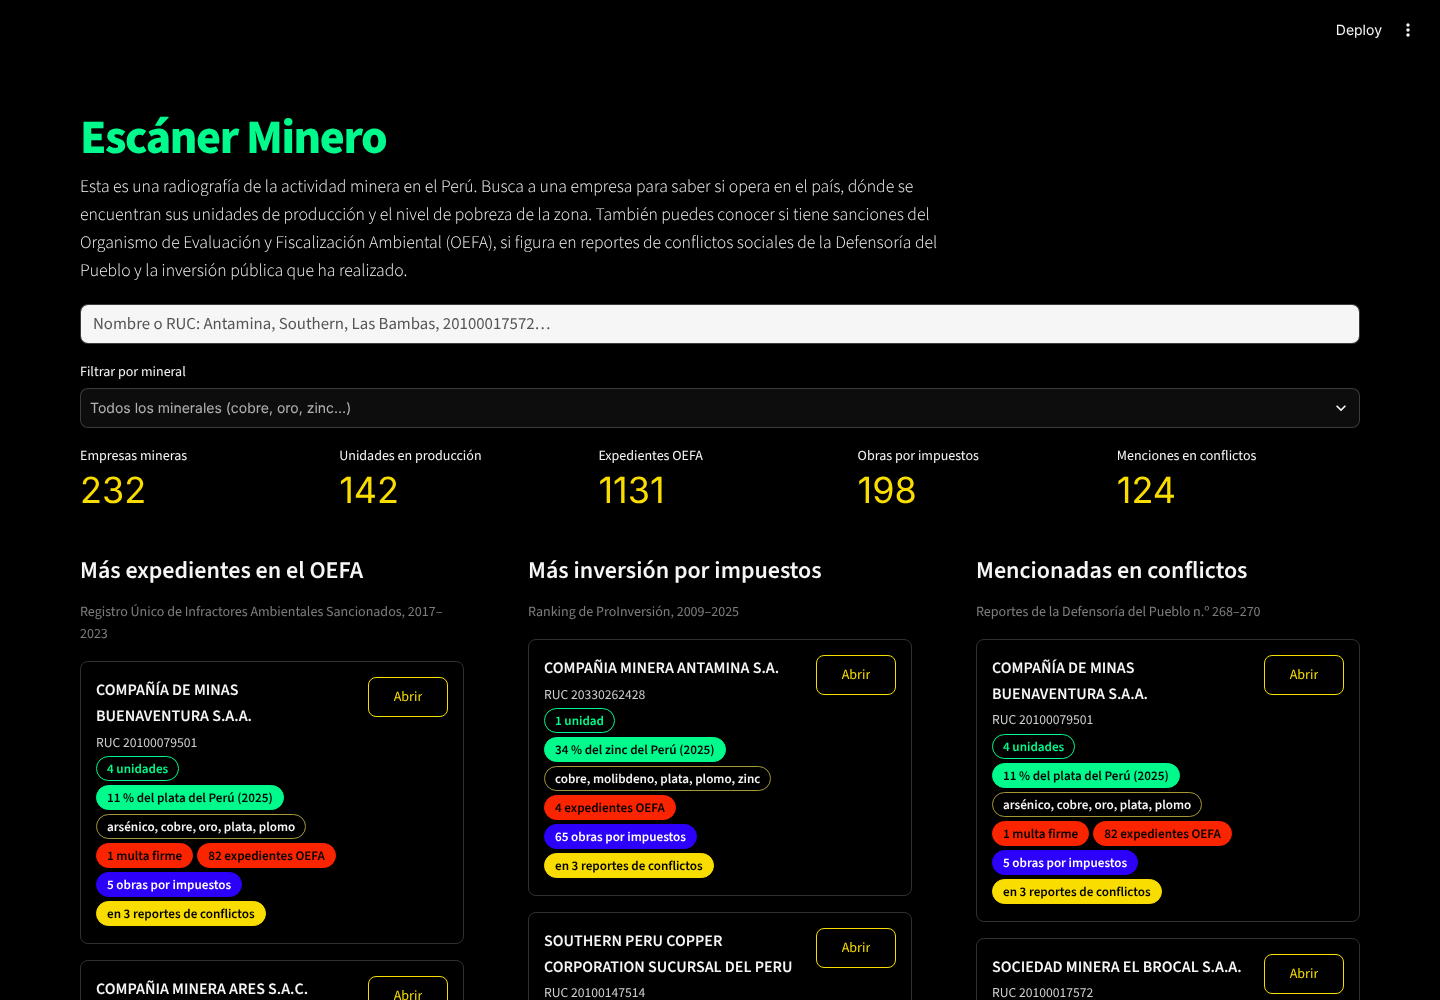
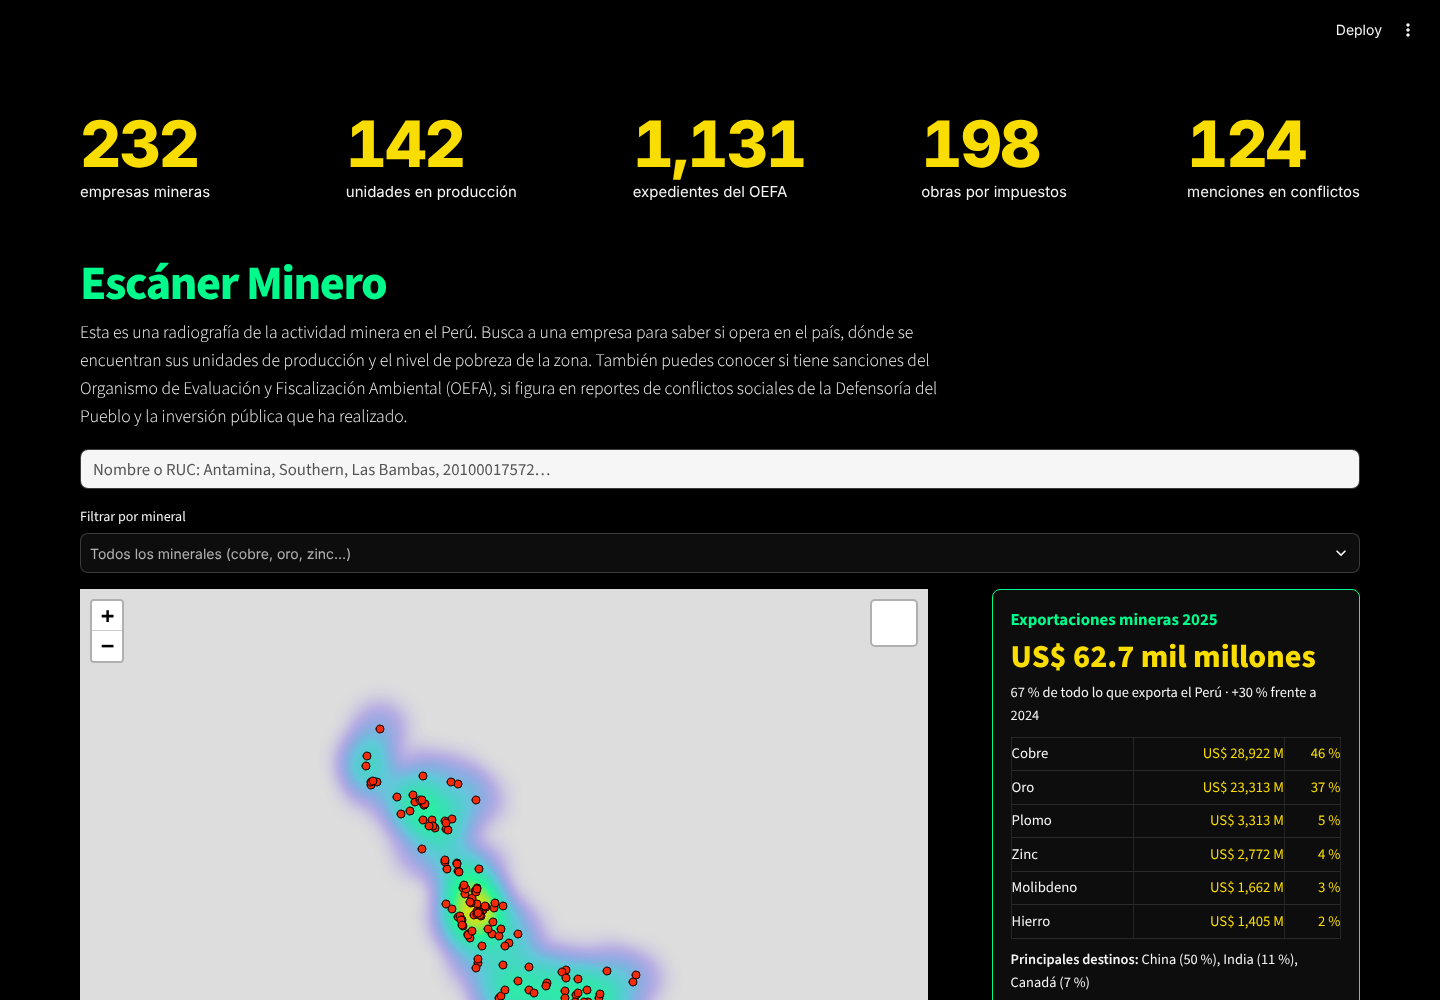
trabajo final: contador animado, mapa de calor de unidades mineras y resumen de exportaciones

diff --git a/trabajo_final/app.py b/trabajo_final/app.py
@@ -9,11 +9,13 @@ en qué conflictos sociales aparecen.
 
 from __future__ import annotations
 
+import json
 import os
 
 import geopandas as gpd
 import pandas as pd
 import streamlit as st
+import streamlit.components.v1 as components
 from streamlit_folium import st_folium
 
 from radar import mapa as M
@@ -57,6 +59,14 @@ st.markdown(
             border: none; font-weight: 600; }
     .stButton button[kind="secondary"] { border-color: #FADD00; color: #FADD00; background: #000000; }
     h4, h5 { color: #F6F6F6; }
+    .expo { border: 1px solid #00FA8C; border-radius: 8px; padding: 1rem 1.1rem; background: #0D0D0D; }
+    .expo .t { color: #00FA8C; font-weight: 700; font-size: 1.05rem; }
+    .expo .big { color: #FADD00; font-weight: 800; font-size: 2rem; line-height: 1.15; margin: .3rem 0; }
+    .expo .s { color: #F6F6F6; font-size: .9rem; margin: .4rem 0; }
+    .expo table { width: 100%; border-collapse: collapse; margin: .6rem 0; font-size: .92rem; }
+    .expo td { padding: .28rem 0; border-bottom: 1px solid #2a2a2a; color: #F6F6F6; }
+    .expo td.d { text-align: right; color: #FADD00; font-variant-numeric: tabular-nums; }
+    .expo .f { color: #A59837; font-size: .78rem; margin-top: .5rem; }
     </style>
     """,
     unsafe_allow_html=True,
@@ -128,6 +138,64 @@ def tarjeta(f: pd.Series, key: str) -> None:
         der.button("Abrir", key=key, on_click=ir_a, args=(f["empresa_id"],), use_container_width=True)
 
 
+def contador(cifras: list[tuple[int, str]]) -> None:
+    """Cifras grandes que cuentan desde cero al cargar la página."""
+    celdas = "".join(
+        f'<div class="c"><div class="n" data-v="{v}">0</div><div class="l">{l}</div></div>' for v, l in cifras
+    )
+    components.html(
+        f"""<style>
+        body {{ margin: 0; background: #000; font-family: Inter, Arial, sans-serif; }}
+        .fila {{ display: flex; flex-wrap: wrap; gap: 8px 32px; justify-content: space-between; }}
+        .c {{ min-width: 150px; }}
+        .n {{ color: #FADD00; font-weight: 800; font-size: 64px; line-height: 1; letter-spacing: -0.03em;
+              font-variant-numeric: tabular-nums; }}
+        .l {{ color: #F6F6F6; font-size: 15px; margin-top: 6px; }}
+        @media (max-width: 700px) {{ .n {{ font-size: 40px; }} }}
+        </style>
+        <div class="fila">{celdas}</div>
+        <script>
+        const dur = 1600, t0 = performance.now();
+        const els = [...document.querySelectorAll('.n')];
+        function paso(t) {{
+          const k = Math.min(1, (t - t0) / dur), e = 1 - Math.pow(1 - k, 3);
+          els.forEach(el => el.textContent = Math.round(el.dataset.v * e).toLocaleString('es-PE'));
+          if (k < 1) requestAnimationFrame(paso);
+        }}
+        requestAnimationFrame(paso);
+        </script>""",
+        height=120,
+    )
+
+
+@st.cache_data
+def exportaciones() -> dict | None:
+    ruta = PROC / "exportaciones_2025.json"
+    return json.loads(ruta.read_text()) if ruta.exists() else None
+
+
+def recuadro_exportaciones(x: dict) -> None:
+    var = (x["metalicas_musd"] / x["metalicas_2024_musd"] - 1) * 100
+    part = x["metalicas_musd"] / x["total_pais_musd"] * 100
+    filas = "".join(
+        f'<tr><td>{p["producto"]}</td><td class="d">US$ {p["musd"]:,.0f} M</td>'
+        f'<td class="d">{p["musd"] / x["metalicas_musd"] * 100:.0f} %</td></tr>'
+        for p in x["productos"][:6]
+    )
+    destinos = ", ".join(f'{d["pais"]} ({d["part"] * 100:.0f} %)' for d in x["destinos"][:3])
+    st.markdown(
+        f"""<div class="expo">
+        <div class="t">Exportaciones mineras {x["anio"]}</div>
+        <div class="big">US$ {x["metalicas_musd"] / 1000:,.1f} mil millones</div>
+        <div class="s">{part:.0f} % de todo lo que exporta el Perú · {var:+.0f} % frente a 2024</div>
+        <table>{filas}</table>
+        <div class="s"><b>Principales destinos:</b> {destinos}</div>
+        <div class="f">Fuente: {x["fuente"]}. Minería metálica.</div>
+        </div>""",
+        unsafe_allow_html=True,
+    )
+
+
 B = base()
 E = B.empresas
 elegida = st.query_params.get("empresa")
@@ -136,7 +204,8 @@ elegida = st.query_params.get("empresa")
 # Portada y búsqueda
 # =====================================================================
 if not elegida or elegida not in set(E["empresa_id"]):
-    st.markdown('<div class="marca">Escáner Minero</div>', unsafe_allow_html=True)
+    arriba = st.empty()  # el contador se llena cuando ya se conoce el filtro
+    st.markdown('<div class="marca" style="margin-top:.6rem;">Escáner Minero</div>', unsafe_allow_html=True)
     st.markdown(
         '<div class="bajada">Esta es una radiografía de la actividad minera en el Perú. Busca a una empresa '
         "para saber si opera en el país, dónde se encuentran sus unidades de producción y el nivel de pobreza "
@@ -157,13 +226,38 @@ if not elegida or elegida not in set(E["empresa_id"]):
     if filtro:
         E = E[E["minerales"].apply(lambda ms: any(m in ms for m in filtro))]
 
-    c = st.columns(5)
-    c[0].metric("Empresas mineras", len(E))
-    c[1].metric("Unidades en producción", int(E["n_unidades"].sum()))
-    c[2].metric("Expedientes OEFA", int(E.get("n_expedientes_ruias", pd.Series([0])).sum()))
-    c[3].metric("Obras por impuestos", int(B.oxi.loc[B.oxi["empresa_id"].isin(E["empresa_id"]), "obra"].nunique()))
-    c[4].metric("Menciones en conflictos",
-                0 if B.conflictos is None else int(B.conflictos["empresa_id"].isin(E["empresa_id"]).sum()))
+    with arriba.container():
+        contador([
+            (len(E), "empresas mineras"),
+            (int(E["n_unidades"].sum()), "unidades en producción"),
+            (int(E["n_expedientes_ruias"].sum()), "expedientes del OEFA"),
+            (int(B.oxi.loc[B.oxi["empresa_id"].isin(E["empresa_id"]), "obra"].nunique()), "obras por impuestos"),
+            (0 if B.conflictos is None else int(B.conflictos["empresa_id"].isin(E["empresa_id"]).sum()),
+             "menciones en conflictos"),
+        ])
+
+    if not consulta:
+        col_mapa, col_expo = st.columns([2.2, 1], gap="large")
+        with col_mapa:
+            uds = B.unidades[B.unidades["empresa_id"].isin(E["empresa_id"])]
+            clic = st_folium(M.mapa_calor(uds), height=540, use_container_width=True,
+                             returned_objects=["last_object_clicked"], key=f"calor-{len(uds)}")
+            punto = (clic or {}).get("last_object_clicked")
+            if punto:
+                d = (uds["LATITUD"] - punto["lat"]).abs() + (uds["LONGITUD"] - punto["lng"]).abs()
+                u = uds.loc[d.idxmin()]
+                if d.min() < 0.01:
+                    a1, a2 = st.columns([3, 1])
+                    a1.markdown(f"**{u['unidad']}** · {u['titular']} · {str(u['distrito']).title()}, "
+                                f"{str(u['region']).title()}")
+                    a2.button("Ver empresa", on_click=ir_a, args=(u["empresa_id"],), key="desde-mapa",
+                              use_container_width=True)
+            st.caption("Haz zoom para ubicar cada unidad y clic en un punto para abrir la empresa. "
+                       "El calor muestra dónde se concentran las unidades en producción (MINEM).")
+        with col_expo:
+            x = exportaciones()
+            if x:
+                recuadro_exportaciones(x)
 
     if consulta:
         res = B.buscar(consulta)

diff --git a/trabajo_final/radar/mapa.py b/trabajo_final/radar/mapa.py
@@ -118,3 +118,47 @@ def construir(
     mapa.get_root().html.add_child(folium.Element(LEYENDA))
     folium.LayerControl(collapsed=True).add_to(mapa)
     return mapa
+
+
+# ---------------------------------------------------------------------
+# Portada: mapa de calor de la actividad minera en todo el Perú
+# ---------------------------------------------------------------------
+def mapa_calor(unidades: pd.DataFrame) -> folium.Map:
+    """Mapa base topográfico (verdes y azules, al estilo de Google Maps), calor por densidad
+    de unidades mineras y un punto por unidad para ubicarlas al hacer zoom."""
+    from folium.plugins import HeatMap
+
+    mapa = folium.Map(location=[-9.3, -75.0], zoom_start=5, tiles=None, control_scale=True,
+                      min_zoom=4, max_bounds=True)
+    folium.TileLayer(
+        tiles="https://server.arcgisonline.com/ArcGIS/rest/services/World_Topo_Map/MapServer/tile/{z}/{y}/{x}",
+        attr="Tiles &copy; Esri &mdash; Esri, HERE, Garmin, USGS, &copy; OpenStreetMap",
+        name="Relieve", max_zoom=17,
+    ).add_to(mapa)
+    folium.TileLayer("OpenStreetMap", name="Calles").add_to(mapa)
+
+    puntos = unidades[["LATITUD", "LONGITUD"]].dropna().values.tolist()
+    HeatMap(
+        puntos, name="Concentración de unidades", radius=26, blur=22, min_opacity=0.35, max_zoom=9,
+        gradient={0.2: "#2C00FA", 0.55: "#00B4D8", 0.85: "#00FA8C", 1.0: "#FADD00"},
+    ).add_to(mapa)
+
+    grupo = folium.FeatureGroup(name="Unidades mineras").add_to(mapa)
+    for _, u in unidades.dropna(subset=["LATITUD", "LONGITUD"]).iterrows():
+        folium.CircleMarker(
+            location=[u["LATITUD"], u["LONGITUD"]], radius=4, color="#000000", weight=1,
+            fill=True, fill_color="#FA2400", fill_opacity=0.95,
+            tooltip=f"<b>{u['unidad']}</b><br>{u['titular']}<br>{u['producto']}<br><i>Clic para ver la empresa</i>",
+        ).add_to(grupo)
+
+    mapa.get_root().html.add_child(folium.Element(
+        """<div style="position: fixed; bottom: 24px; left: 12px; z-index: 9999; background: #000; color: #F6F6F6;
+        border: 1px solid #F6F6F6; padding: 8px 10px; border-radius: 6px; font: 12px Inter, Arial, sans-serif;">
+        <div style="font-weight:600;margin-bottom:4px;">Concentración de unidades mineras</div>
+        <div style="width:160px;height:10px;background:linear-gradient(to right,#2C00FA,#00B4D8,#00FA8C,#FADD00);"></div>
+        <div style="display:flex;justify-content:space-between;width:160px;"><span>menos</span><span>más</span></div>
+        <div style="margin-top:6px;"><span style="display:inline-block;width:10px;height:10px;border-radius:50%;
+        background:#FA2400;border:1px solid #000;"></span> Unidad minera en producción</div></div>"""
+    ))
+    folium.LayerControl(collapsed=True).add_to(mapa)
+    return mapa

diff --git a/trabajo_final/scripts/preparar_empresas.py b/trabajo_final/scripts/preparar_empresas.py
@@ -152,6 +152,7 @@ def main() -> None:
     prod_out = cargar_produccion(U)
     inv_out = cargar_inversion(U)
     guardar_transferencias()
+    guardar_exportaciones()
 
     # 7) Defensoría (opcional): menciones de cada empresa en los reportes
     conflictos_out = cargar_defensoria(U)
@@ -323,6 +324,48 @@ def guardar_transferencias() -> None:
                               "soles": pd.to_numeric(r[c], errors="coerce")})
     pd.DataFrame(filas).to_csv(PROC / "transferencias_departamento.csv", index=False)
     print(f"Transferencias: {len(filas)} registros departamento-concepto-año.")
+
+
+def guardar_exportaciones() -> None:
+    """Resumen de exportaciones mineras (Anuario Minero 2025): total, productos y destinos."""
+    if not ANUARIO.exists():
+        return
+    import json
+
+    tot = pd.read_excel(ANUARIO, sheet_name="Exportaciones", header=None)
+    enc = tot.index[tot[0].astype(str).str.startswith("PRODUCTO")][0]
+    cols = _anios(tot.loc[enc])
+    c25 = next(c for c, a in cols.items() if a == 2025)
+    c24 = next(c for c, a in cols.items() if a == 2024)
+    fila = lambda nombre: tot.loc[tot[0].astype(str).str.strip().str.upper().str.startswith(nombre)].iloc[0]
+    met, total = fila("MINERO METÁLICOS"), fila("TOTAL")
+
+    em = pd.read_excel(ANUARIO, sheet_name="Export Min", header=None)
+    enc = em.index[em[0].astype(str).str.startswith("PRODUCTO")][0]
+    cols_m = _anios(em.loc[enc])
+    k25 = next(c for c, a in cols_m.items() if a == 2025)
+    productos = []
+    for _, r in em.loc[enc + 1:].iterrows():
+        n = str(r[0])
+        if n.upper().startswith("TOTAL"):
+            break
+        if "/" in n and not n.upper().startswith("OTROS"):
+            productos.append({"producto": n.split("/")[0].strip().capitalize(), "musd": float(r[k25])})
+    productos.sort(key=lambda x: -x["musd"])
+
+    de = pd.read_excel(ANUARIO, sheet_name="Destino export", header=None)
+    destinos = [{"pais": str(r[0]).strip().title(), "musd": float(r[2]), "part": float(r[3])}
+                for _, r in de.iloc[4:9].iterrows()]
+
+    resumen = {
+        "anio": 2025,
+        "metalicas_musd": float(met[c25]), "metalicas_2024_musd": float(met[c24]),
+        "total_pais_musd": float(total[c25]),
+        "productos": productos, "destinos": destinos,
+        "fuente": "MINEM, Anuario Minero 2025 (cifras de 2025 preliminares)",
+    }
+    (PROC / "exportaciones_2025.json").write_text(json.dumps(resumen, ensure_ascii=False, indent=1))
+    print(f"Exportaciones metálicas 2025: US$ {resumen['metalicas_musd']:,.0f} millones.")
 
 
 def cargar_ruias(U: Universo) -> pd.DataFrame | None:
